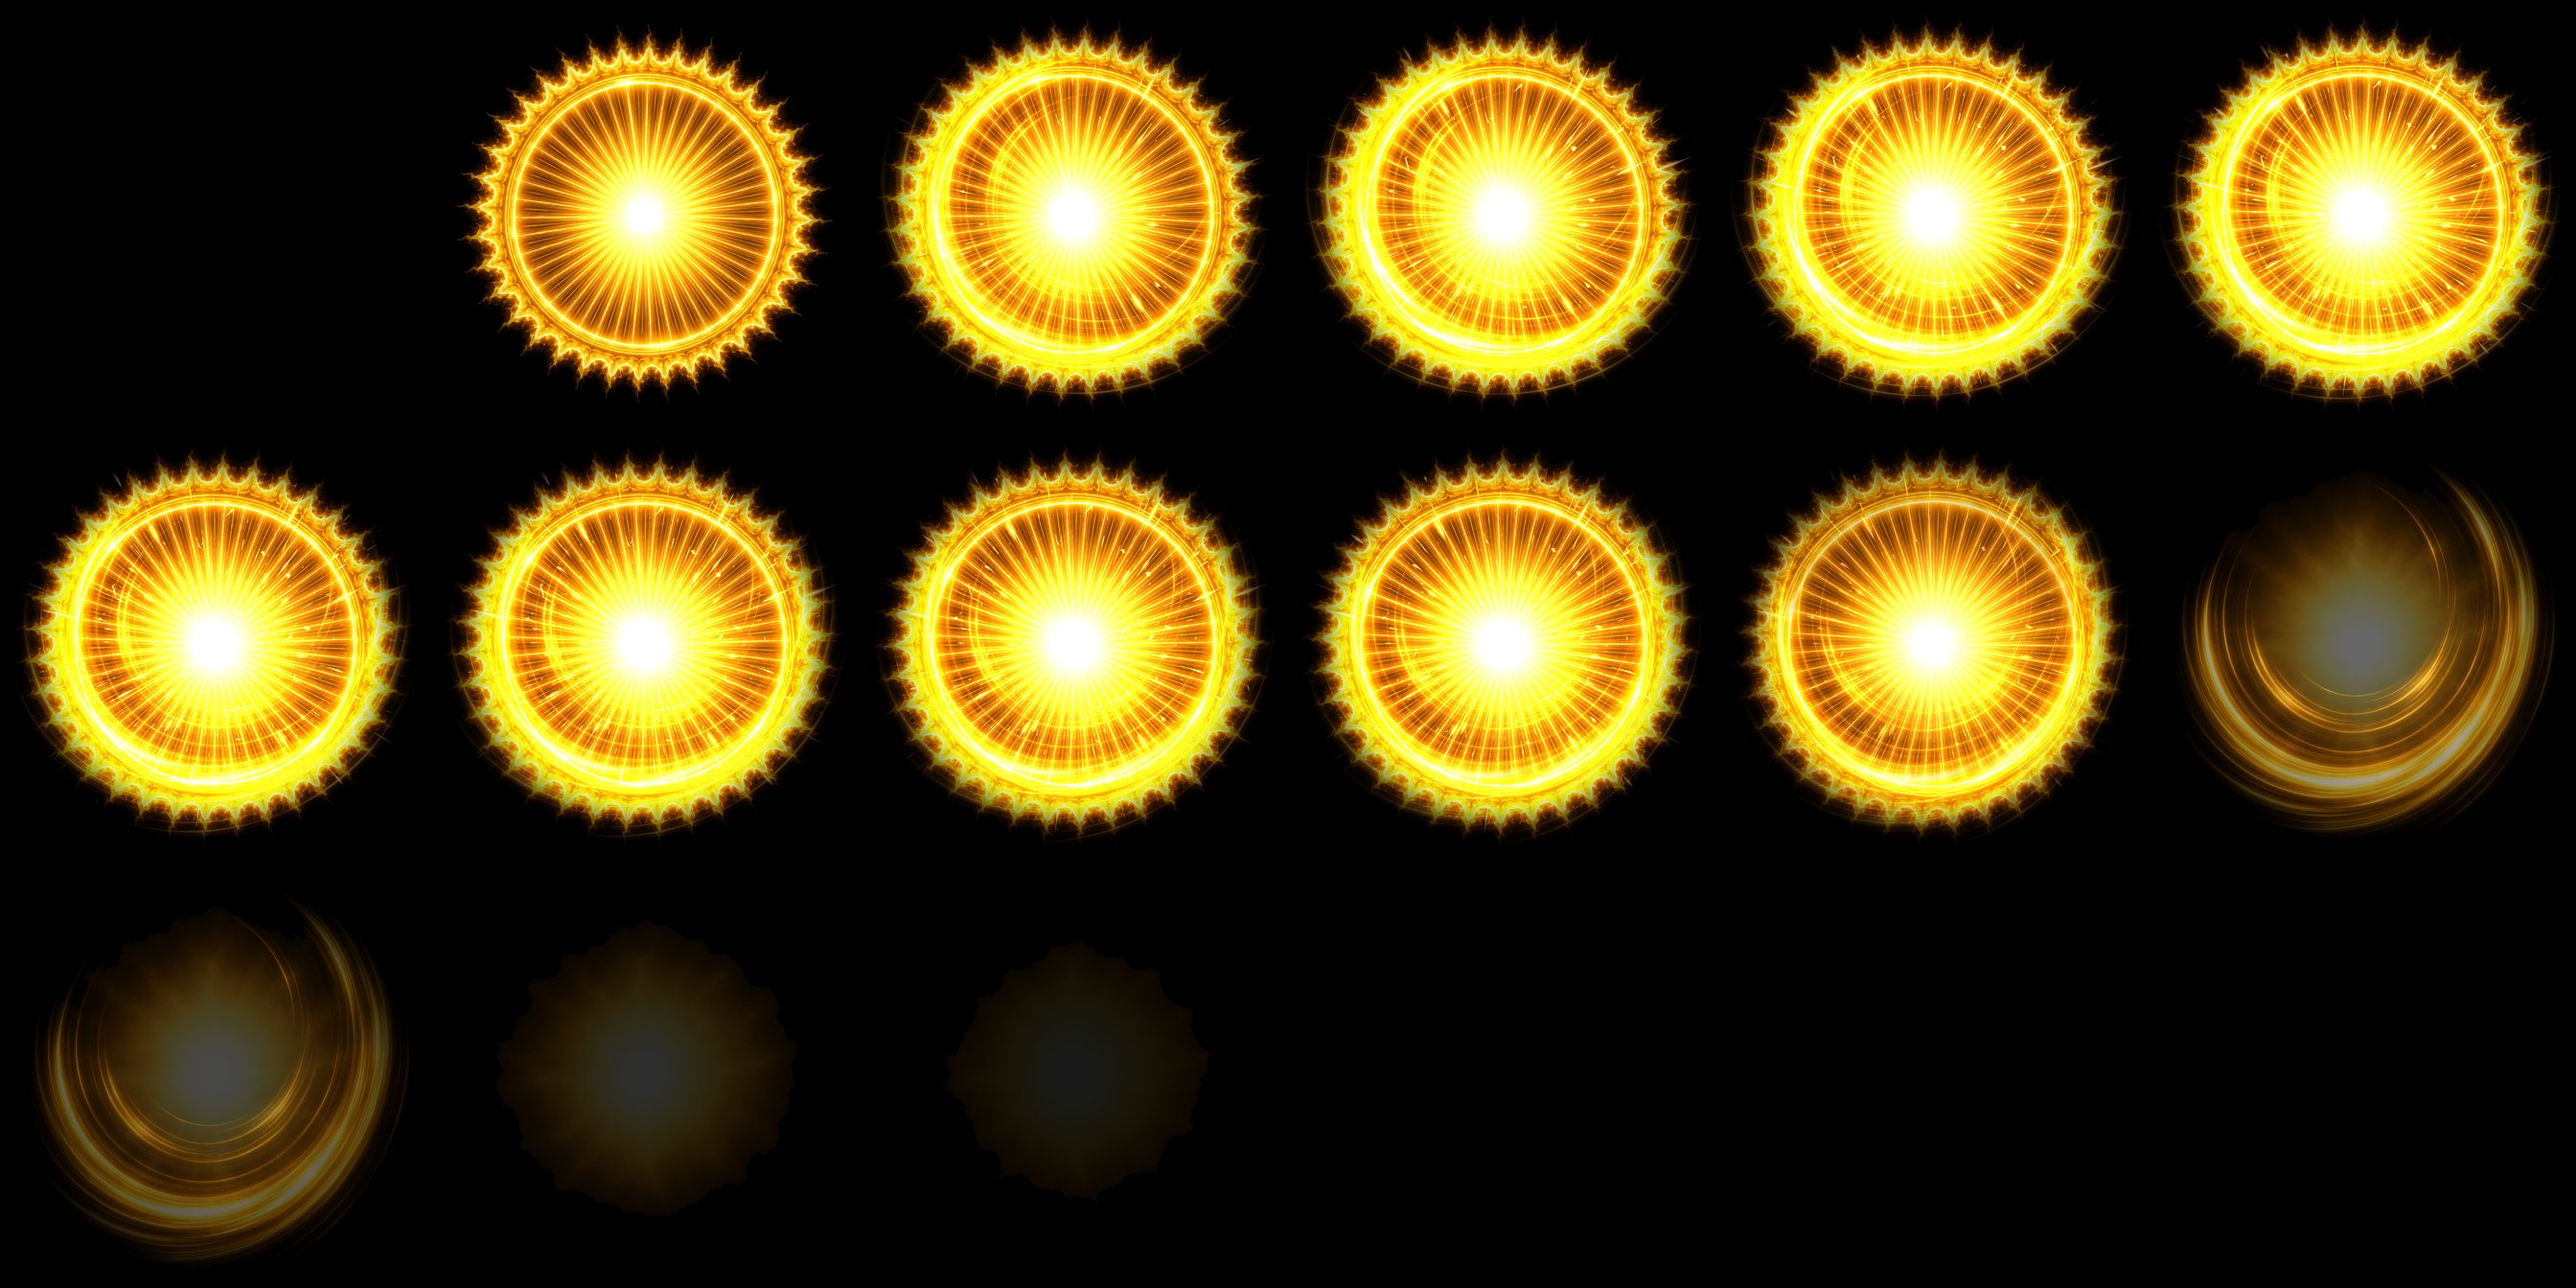
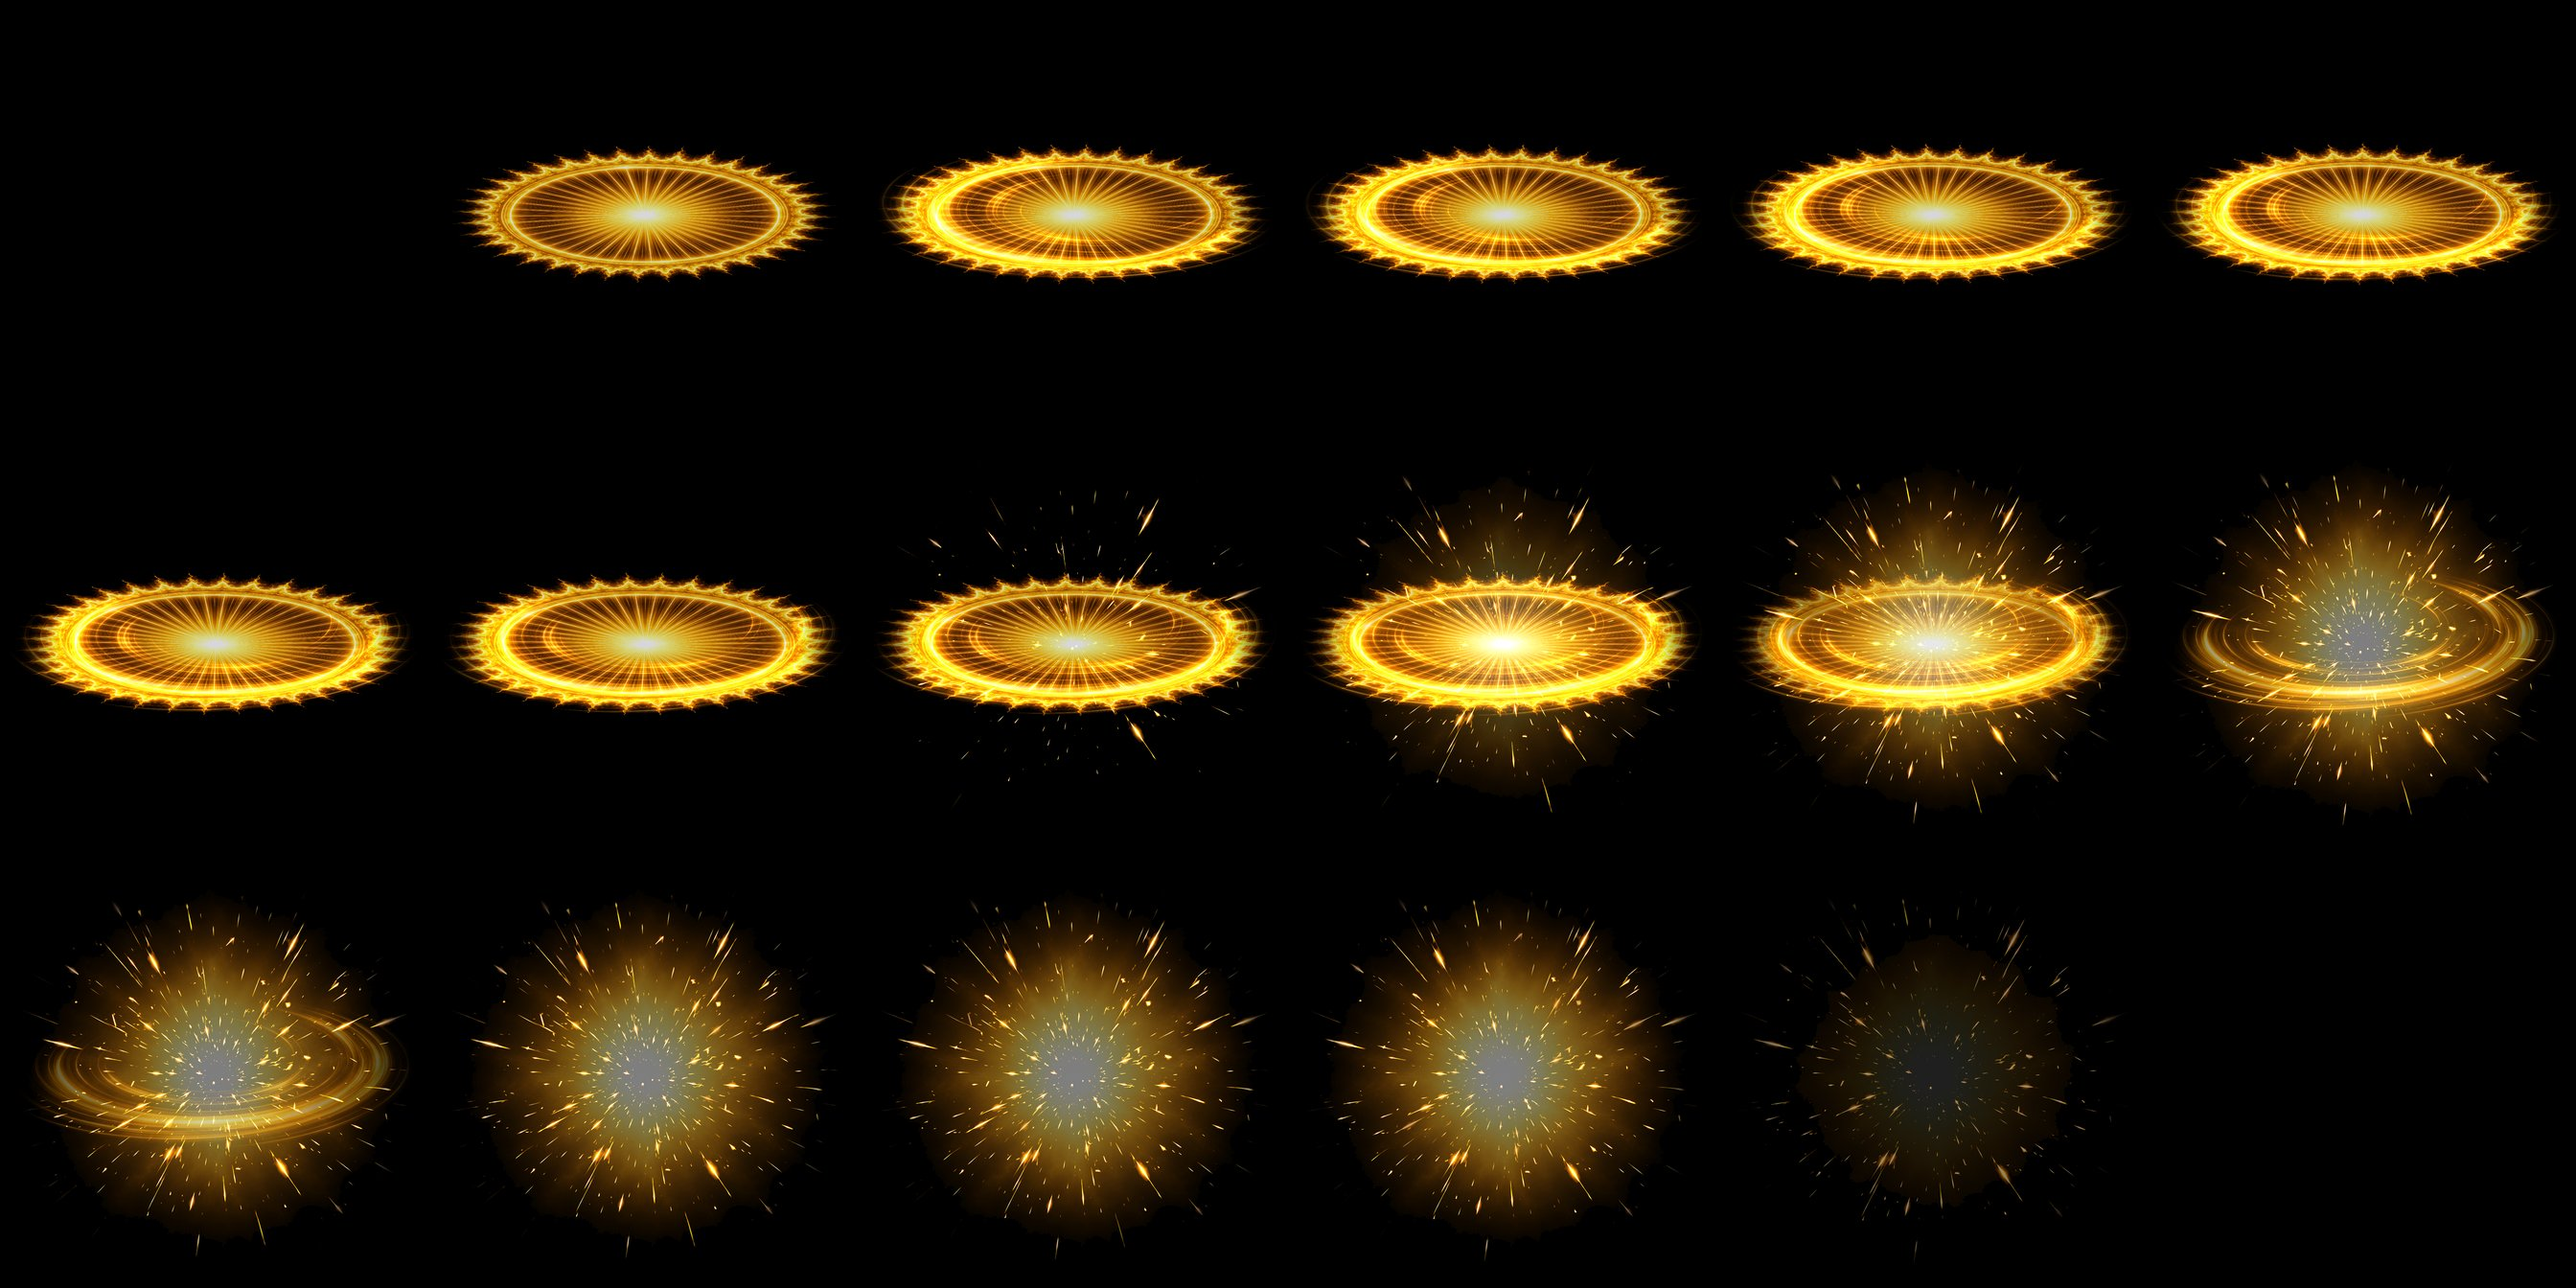
T92 amend: Sudarshana thrown flat across the board - compositor squash_y (rotate-then-squash ellipse) + two-phase flight/impact brief + runtime addSheetSpr travel (first sprite-path extension since T78) + caster-half origin wire

diff --git a/index.html b/index.html
@@ -8540,7 +8540,9 @@ fn _bp(c:vec3<f32>, thr:f32)->vec3<f32>{ let l=max(c.r,max(c.g,c.b)); return c*s
     else op=s.opPeak+(s.op1-s.opPeak)*Math.pow((t-pk)/(1-pk),3);            // T75: cubic-IN release (breathing tail; was 1.6)
     if(op<=0.004) return;
     const size=s.size, sx=DPR*sc*(s.flip||1)*(s.stretchX||1), sy=DPR*sc*(s.squashY||1);
-    const c=Math.cos(s.rot||0), sn=Math.sin(s.rot||0), dx=s.x+(s.driftX||0)*t, dy=s.y+(s.driftY||0)*t;
+    let px=s.x, py=s.y;
+    if(s.travel){ const tp=Math.min(1, (s.age*1000)/((s.travel.ms||400)*(vfxT()||1))); px=s.travel.fromX+(s.x-s.travel.fromX)*tp; py=s.travel.fromY+(s.y-s.travel.fromY)*tp; }   // T92-amend (first sprite-path extension since T78): cross-board THROW — the draw position lerps origin→anchor over travelMs (vfxT-scaled to track the animation), then PINS at the anchor. Absent s.travel → px=s.x,py=s.y = byte-identical for every other effect.
+    const c=Math.cos(s.rot||0), sn=Math.sin(s.rot||0), dx=px+(s.driftX||0)*t, dy=py+(s.driftY||0)*t;
     const blend = s.smoke ? 'source-over' : 'lighter';
     cx.setTransform(sx*c, sx*sn, -sy*sn, sy*c, DPR*dx, DPR*dy);              // transform shared by all sub-draws below
     const ax=(s.anchorX!=null?s.anchorX:0.5), ay=(s.anchorY!=null?s.anchorY:0.5);
@@ -8587,8 +8589,10 @@ fn _bp(c:vec3<f32>, thr:f32)->vec3<f32>{ let l=max(c.r,max(c.g,c.b)); return c*s
   // T82: single-unit STRIKE class — Vajra, anchored on the TARGET unit's card rect (not the caster). Square card-anchored sheet (reuses the landing path), 18f one-shot forward, flat envelope, drawn at card scale. The fastest effect (~1.125s at 16fps).
   function sprVajra(cxp,cyp,cardW){ if(reducedMotion()||!ready) return false; const {x,y}=local(cxp,cyp), W=cw(cardW);
     return addSheetSpr('vajra', x, y, W*2.4, { frame:0, dir:1, op0:1,opPeak:1,op1:1, sc0:1,sc1:1, life: 18/SHEET_FPS*vfxT() }); }
-  function sprSudarshana(cxp,cyp,cardW){ if(reducedMotion()||!ready) return false; const {x,y}=local(cxp,cyp), W=cw(cardW);   // T92: Sudarshana Chakra — the spinning target strike at the removed hero's rect (target-strike register like Vajra; 6×3, 18f forward, flat envelope so the baked in/out carries)
-    return addSheetSpr('sudarshana', x, y, W*2.4, { frame:0, dir:1, op0:1,opPeak:1,op1:1, sc0:1,sc1:1, life: 18/SHEET_FPS*vfxT() }); }
+  function sprSudarshana(cxp,cyp,cardW, fromXp, fromYp, travelMs){ if(reducedMotion()||!ready) return false; const {x,y}=local(cxp,cyp), W=cw(cardW);   // T92-amend: Sudarshana Chakra — the THROWN spinning discus. Anchor = the removed hero's rect; optional (fromXp,fromYp)+travelMs = the cross-board flight from the caster's half (compositor spins+squashes in place, the runtime carries it). Target-strike register (6×3, 18f forward, flat envelope so the baked flight/impact phases carry).
+    const o={ frame:0, dir:1, op0:1,opPeak:1,op1:1, sc0:1,sc1:1, life: 18/SHEET_FPS*vfxT() };
+    if(fromXp!=null && fromYp!=null){ const f=local(fromXp,fromYp); o.travel={ fromX:f.x, fromY:f.y, ms:(travelMs||400) }; }
+    return addSheetSpr('sudarshana', x, y, W*2.4, o); }
   // T83: shared DAMAGE TICK status sting — faction-agnostic, fires on SURVIVING damage at the hit unit. HALF-WEIGHT: drawn at W*1.4 (vs a landing's W*2.4 → ~⅓ the area) and the sheet opacities are capped (0.7/0.75/0.4) → ~¼ on-screen weight. 12f (~0.75s), the shortest.
   function sprDamage(cxp,cyp,cardW){ if(reducedMotion()||!ready) return false; const {x,y}=local(cxp,cyp), W=cw(cardW);
     return addSheetSpr('damage', x, y, W*1.4, { frame:0, dir:1, op0:1,opPeak:1,op1:1, sc0:1,sc1:1, life: 12/SHEET_FPS*vfxT() }); }
@@ -8832,8 +8836,12 @@ async function playEvent(ev, snap, evs=[]){   // T83: evs = this action's event 
     await cDelay(40);
     if(LEGACY_VFX && dp){ VFX.sprBloom(dp.cx, dp.rect.top+dp.rect.height/2, 'destroy', dp.rect.width); VFX.sprSmoke(dp.cx, dp.rect.top+dp.rect.height/2, 1, dp.rect.width); }   // E4 white-gold bloom + E5 smoke at death [T77-gated; the dissolve-beat below stays — it carries card identity + the death beat]
     const dcard=(!snap[u])?findCardByUid(u):null; dissolveAt(dp, (snap[u]&&snap[u].name)||(dcard&&dcard.n), (snap[u]&&snap[u].color)||(dcard?(FAC_HEX[cardHomeFaction(dcard)]||'#e0483c'):null)); await cDelay(600); return; }   // 40ms hit-stop → death reads as a beat, then crack + shards + dwell. T88b: a kill-on-entry unit isn't in the snapshot → pull its name/colour from the card (in discard) so the dissolve still reads.
-  if (ev.type==='passive' && ev.abilityName==='Sudarshana'){ const u=ev.targetUids[0]; const dp=posOf(u, snap);   // T92: Sudarshana Chakra — the spinning target strike at the REMOVED hero's rect (posOf via snapshot — the hero was on board before the splice). It is a REMOVAL, not a kill → NO death dissolve (the hero returns next round); the strike + the hero's disappearance from the row carry the story. The callout names the cause AT the hero so the temporary removal isn't a silent vanishing (T88 principle).
-    if(dp){ calloutAt(dp, 'Sudarshana Chakra'); await cDelay(300); VFX.sprSudarshana(dp.cx, dp.rect.top+dp.rect.height/2, dp.rect.width); await cDelay(700); }
+  if (ev.type==='passive' && ev.abilityName==='Sudarshana'){ const u=ev.targetUids[0]; const dp=posOf(u, snap);   // T92: Sudarshana Chakra — the THROWN spinning discus. Anchor = the REMOVED hero's rect (posOf via snapshot — the hero was on board before the splice). It is a REMOVAL, not a kill → NO death dissolve (the hero returns next round); the strike + the hero's disappearance from the row carry the story. The callout names the cause AT the hero so the temporary removal isn't a silent vanishing (T88 principle).
+    if(dp){ calloutAt(dp, 'Sudarshana Chakra'); await cDelay(300);
+      const caster=1-ownerPiOfUid(u), ch=document.querySelector(caster===1?'.half.opp':'.half.me');   // T92-amend: origin = the CASTER's half center (T79/T87 half idiom) — caster = the side opposite the removed hero's owner, cleanly derivable at the handler from the target uid.
+      let fx=null, fy=null; if(ch){ const r=ch.getBoundingClientRect(); fx=r.left+r.width/2; fy=r.top+r.height*0.5; }
+      VFX.sprSudarshana(dp.cx, dp.rect.top+dp.rect.height/2, dp.rect.width, fx, fy, 400);   // thrown flat from the caster's half to the target (~400ms flight); the impact phase bites + pins at the hero
+      await cDelay(700); }
     return; }
   if (src && (ev.type==='buff'||ev.type==='token')){ cpulse(src.el,'choreo-src'); calloutAt(src, ev.abilityName); }
   const tgts=ev.targetUids||[];

diff --git a/scripts/animate_vfx.py b/scripts/animate_vfx.py
@@ -303,30 +303,33 @@ BRIEFS = {
     ],
   },
 
-  # SUDARSHANA CHAKRA — the spinning target strike (second Deva Mythic; the rotate vocabulary's showcase). Target-anchored
-  # like Vajra: square, source-res, 18f one-shot. It is a REMOVAL, not a kill — the discus descends, spins through the cut,
-  # and is gone; the hero vanishes from its row. T92 STROBE FIX A (owner ruling): rotation 84° across frames 1-12
-  # (~7.6°/frame, under a tooth-gap) so the serrated rim TRACKS frame-to-frame instead of aliasing (the 40°/frame veto).
+  # SUDARSHANA CHAKRA — the THROWN spinning discus (second Deva Mythic; the rotate + squash_y vocabulary showcase). It is
+  # HURLED flat across the board: a face-on serrated disc spinning in its own plane, foreshortened by squash_y 0.35 to an
+  # ellipse (frisbee perspective), that flies to the struck hero and BITES (sparks + glow at arrival). Target-strike class
+  # (square, source-res, 18f one-shot). TWO PHASES: FLIGHT f1-8 (squashed disc + trail only, no sparks/glow) → IMPACT f9-18
+  # (disc passes THROUGH + radial spark burst + glow bloom). STROBE FIX A stands: rotation 84° across f1-12 (~7.6°/frame,
+  # under a tooth-gap) so the rim TRACKS during flight. The cross-board TRAVEL is a RUNTIME concern (addSheetSpr travel) —
+  # the compositor renders the disc IN PLACE, squashed + spinning; the runtime carries it from the caster's half to the target.
   "sudarshana": {
     "seed": 0x5DA12A, "fps": 24, "frames": 18, "one_shot": True, "layers_dir": "sudarshana",
     "layers": [
-      # L1 DISCUS — descends & strikes (f1-2 arrival snap + scale 0.8→1.0), holds spinning through the cut, gone by 12.
-      { "src": "L1_discus", "kind": "xform",
-        "opacity": [[1, 2, 0.0, 1.0, "out"], [3, 9, 1.0, 1.0, "lin"], [10, 12, 1.0, 0.0, "in"]],
-        "scale":   [[1, 3, 0.8, 1.0, "out"], [4, 12, 1.0, 1.04, "lin"]],
+      # L1 DISCUS — FLIGHT: 2-frame rise to 0.85, spins as a squashed (0.35) ellipse through f8; IMPACT: passes THROUGH (opacity→0 by 12).
+      { "src": "L1_discus", "kind": "xform", "squash_y": 0.35,
+        "opacity": [[1, 2, 0.0, 0.85, "out"], [3, 8, 0.85, 0.85, "lin"], [9, 12, 0.85, 0.0, "in"]],
+        "scale":   [[1, 3, 0.9, 1.0, "out"], [4, 12, 1.0, 1.05, "lin"]],
         "rotate":  [1, 12, 84] },
-      # L2 TRAIL — the spin-blur ring, tracks the discus in lockstep (MATCHED rotation), lags on arrival + lingers 2f past.
-      { "src": "L2_trail", "kind": "xform",
-        "opacity": [[2, 4, 0.0, 0.85, "out"], [5, 10, 0.85, 0.6, "lin"], [11, 14, 0.6, 0.0, "in"]],
+      # L2 TRAIL — the squashed (0.35) spin-blur ring, MATCHED rotation, 0.6, lags the disc on arrival + lingers 2f past.
+      { "src": "L2_trail", "kind": "xform", "squash_y": 0.35,
+        "opacity": [[2, 3, 0.0, 0.6, "out"], [4, 10, 0.6, 0.6, "lin"], [11, 14, 0.6, 0.0, "in"]],
         "scale":   [[2, 14, 1.0, 1.06, "lin"]],
         "rotate":  [1, 12, 84] },
-      # L3 SPARKS — RADIAL burst at the strike instant (emit f3-5), consumed outward, dead by 12.
+      # L3 SPARKS — IMPACT ONLY: RADIAL burst at the BITE (emit f9-11, the T91 numbers), consumed outward, dead by 18. NOT squashed (a round bite).
       { "src": "L3_sparks", "kind": "particles", "drift": "radial",
-        "emit_frames": [3, 5], "inner_radius": 1.0, "inner_boost": 1.0, "speed_px_s": [80, 150], "life_frames": [6, 12],
-        "jitter_deg": 14.0, "fade_frames": 2, "die_by": 12, "lum_thresh": 44, "min_area": 3 },
-      # L4 GLOW — blooms with the strike, holds, the ONLY linger (alive at f17, black at f18).
+        "emit_frames": [9, 11], "inner_radius": 1.0, "inner_boost": 1.0, "speed_px_s": [80, 150], "life_frames": [6, 12],
+        "jitter_deg": 14.0, "fade_frames": 2, "die_by": 18, "lum_thresh": 44, "min_area": 3 },
+      # L4 GLOW — IMPACT ONLY: rises f9-12 to 0.5 at the bite, lingers, black at 18. NOT squashed (a round bloom).
       { "src": "L4_glow", "kind": "xform",
-        "opacity": [[1, 4, 0.0, 0.55, "out"], [5, 10, 0.55, 0.55, "lin"], [11, 18, 0.55, 0.0, "out"]] },
+        "opacity": [[9, 12, 0.0, 0.5, "out"], [13, 15, 0.5, 0.5, "lin"], [16, 18, 0.5, 0.0, "out"]] },
     ],
   },
 }
@@ -346,13 +349,19 @@ def _seg_val(segs, f, default_before, hold):
             return vs + (ve - vs) * EASE[ez](max(0.0, min(1.0, t)))
     return default_before                                     # a gap between segments (opacity → 0)
 
-def _warp(rgb, s, dx, dy, anchor="center", rot=0.0):
-    """Scale by s (pivot centre / bottom-centre), optional rotation `rot`° about the pivot, then translate (dx,dy)."""
+def _warp(rgb, s, dx, dy, anchor="center", rot=0.0, squash_y=1.0):
+    """Scale by s (pivot centre / bottom-centre), optional rotation `rot`° about the pivot, then translate (dx,dy).
+    T92-amend: optional post-rotate vertical squash_y about the pivot — rotate IN-PLANE FIRST, then foreshorten to an
+    ellipse (frisbee perspective). squash_y==1.0 → the matrix is byte-identical to before (every prior effect, incl. the
+    rot==0 fast path, is untouched)."""
     h, w = rgb.shape[:2]; cx = w / 2.0; cy = (h if anchor == "bottom" else h / 2.0)
     if rot == 0.0:
         M = np.float32([[s, 0, cx - s * cx + dx], [0, s, cy - s * cy + dy]])   # UNCHANGED (byte-identical for every prior effect)
     else:
         M = cv2.getRotationMatrix2D((cx, cy), rot, s); M[0, 2] += dx; M[1, 2] += dy   # T89: scale + rotate about the pivot (getRotationMatrix2D(_,0,s) == the manual matrix above)
+    if squash_y != 1.0:                                                         # T92-amend: foreshorten AFTER rotate → the in-plane spin reads as an ellipse in perspective
+        S = np.float32([[1.0, 0.0, 0.0], [0.0, squash_y, cy * (1.0 - squash_y)]])   # vertical squash about the pivot cy
+        M = (S @ np.vstack([M, [0.0, 0.0, 1.0]]))[:2]                           # S · [scale/rotate/translate] — squash composes LAST (order matters)
     return cv2.warpAffine(rgb, M, (w, h), flags=cv2.INTER_LINEAR, borderValue=(0, 0, 0))
 
 def _fit_cover(rgb, W, H):
@@ -496,7 +505,7 @@ def render(name):
                     rf0, rf1, rdeg = L["rotate"]
                     if f >= rf0:
                         rot = rdeg * min(1.0, (f - rf0) / max(1, rf1 - rf0))
-                canvas += _warp(rgb, sc, dx, dy, L.get("scale_anchor", "center"), rot).astype(np.float32) * op
+                canvas += _warp(rgb, sc, dx, dy, L.get("scale_anchor", "center"), rot, L.get("squash_y", 1.0)).astype(np.float32) * op   # T92-amend: squash_y (default 1.0) → gated, byte-identical when absent
             else:  # particles
                 fade = pm["fade"]; cap = pm["op_cap"]
                 for pt in pm["blobs"]:
